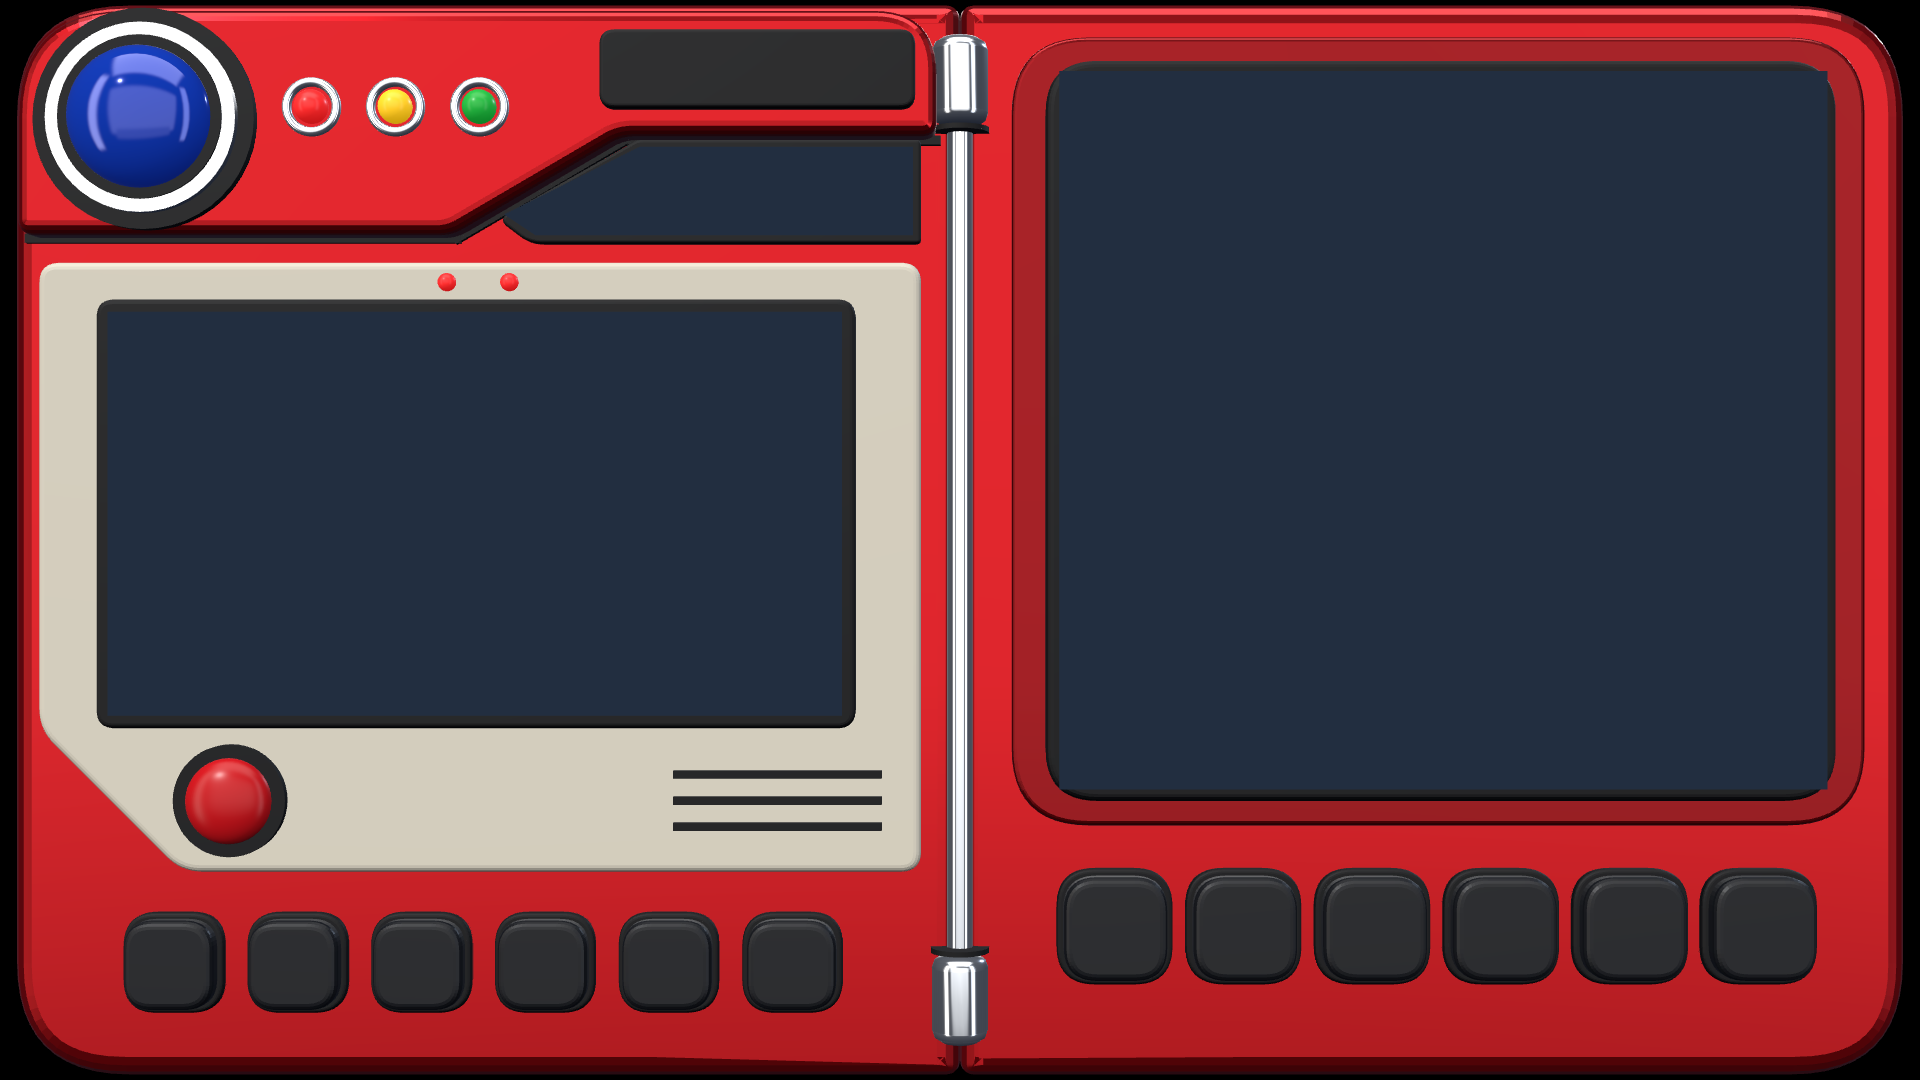
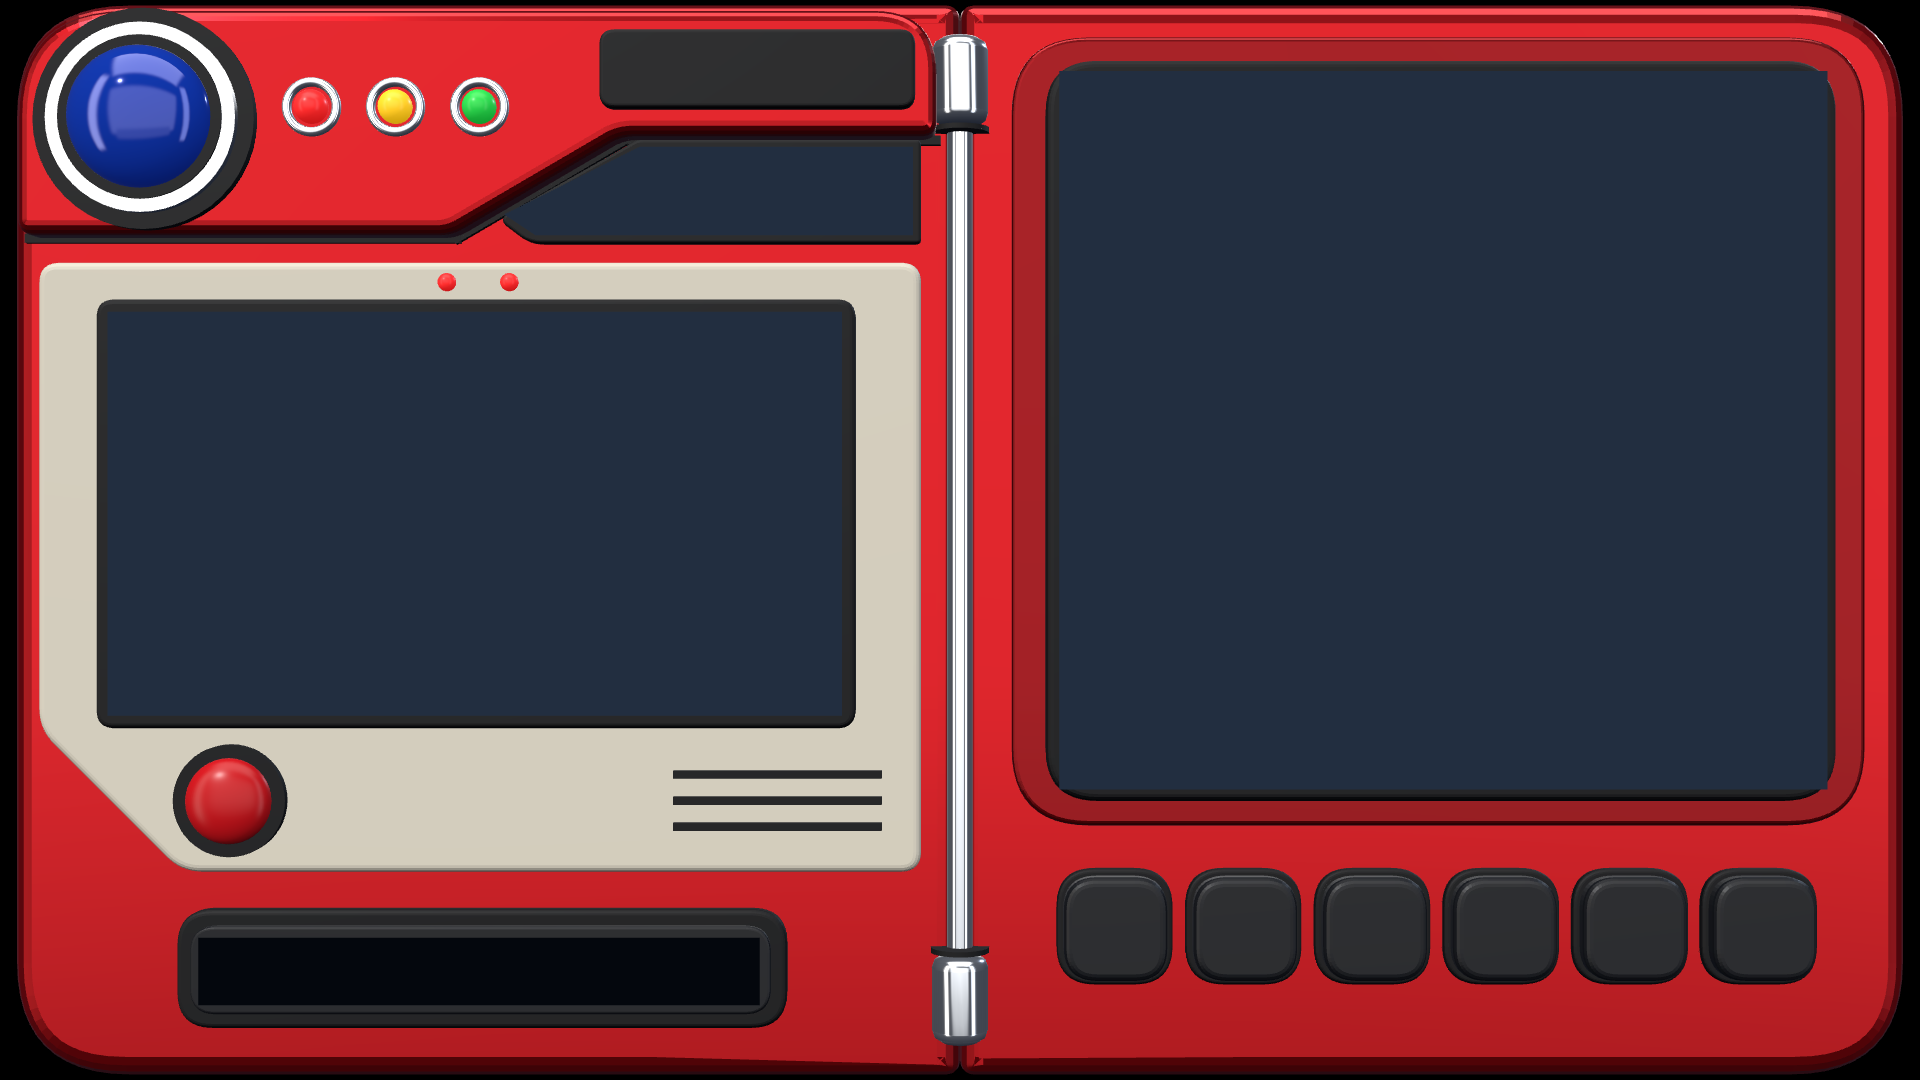
Mini status display at the lower left: network, notifications, storage
Replaces the six decorative keys with a recessed display. NotifService reads the
TV's notifications (notification access is granted by tools/install-apk.sh);
the Wi-Fi name needs location permission, also granted there.

Claude-Session: https://claude.ai/code/session_01U9C24E7d1zj8JvSuK3R342

Changed region(s): [[0.0625, 0.825, 0.4375, 0.9778], [0.2188, 0.0917, 0.2812, 0.1222]]

diff --git a/tools/shell-scene/dex.js b/tools/shell-scene/dex.js
@@ -448,6 +448,7 @@
   var mScreenR = new THREE.MeshBasicMaterial({ map: tR, toneMapped: false });
   var mScreenC = new THREE.MeshBasicMaterial({ map: tC, toneMapped: false });
   var mScreenN = new THREE.MeshBasicMaterial({ map: tN, transparent: true, toneMapped: false, depthWrite: false });
+  var mScreenS = new THREE.MeshBasicMaterial({ color: C(0x04070d), toneMapped: false });
   var mSign = new StdMat({ color: C(0xe9edf2), metalness: 1, roughness: 0.2, envMapIntensity: 2.0 });
   function makeSheen(w, h) {
     var c = document.createElement('canvas'); c.width = w; c.height = h;
@@ -658,12 +659,10 @@
       var s = new THREE.Mesh(new THREE.BoxGeometry(0.8, 0.03, 0.03), mGasket);
       s.position.set(1.15, -0.9 - i * 0.1, zF + 0.1); g.add(s);
     }
-    /* control keys, same style as the keys on the right-hand half */
-    var kx = [-1.2, -0.72, -0.24, 0.24, 0.72, 1.2];
-    for (var kq = 0; kq < kx.length; kq++) {
-      var kr = slab(roundedPoly(rectPts(0.39, 0.39, kx[kq], -1.64), 0.13), 0.03, 0.015, mGasket); kr.position.z = zF + 0.0; g.add(kr);
-      var kc = slab(roundedPoly(rectPts(0.345, 0.345, kx[kq], -1.64), 0.115), 0.07, 0.03, mBlack); kc.position.z = zF + 0.03; g.add(kc);
-    }
+    /* status display: a recessed bezel around a flat dark screen that the native app draws on */
+    var lcdBez = slab(roundedPoly(rectPts(2.36, 0.46, 0, -1.66), 0.14), 0.04, 0.02, mGasket); lcdBez.position.z = zF + 0.01; g.add(lcdBez);
+    var lcdFrame = slab(roundedPoly(rectPts(2.24, 0.34, 0, -1.66), 0.1), 0.02, 0.012, mBlack); lcdFrame.position.z = zF + 0.05; g.add(lcdFrame);
+    var lcd = new THREE.Mesh(new THREE.PlaneGeometry(2.16, 0.26), mScreenS); lcd.position.set(0, -1.66, zF + 0.085); g.add(lcd);
     return g;
   }
   function buildLid() {
@@ -942,7 +941,7 @@
   if (O.compile === '1') { try { renderer.compile(scene, camera); } catch (e) {} }   /* off by default: it crashed this TV's driver at startup */
   if (O.debug === '1') {   /* hook for tools/render-shell.js, which renders the device body for the native launcher */
     window.__dex = { THREE: THREE, scene: scene, camera: camera, renderer: renderer, D: D, setTarget: setTarget,
-      mats: { L: mScreenL, R: mScreenR, C: mScreenC, N: mScreenN, SL: mSheenL, SR: mSheenR, glass: mGlass, btn: btnMats }, state: function () { return state; } };
+      mats: { L: mScreenL, R: mScreenR, C: mScreenC, N: mScreenN, S: mScreenS, SL: mSheenL, SR: mSheenR, glass: mGlass, btn: btnMats }, state: function () { return state; } };
   }
   if (tier) msg('Graphics mode ' + tier, 4000);
   requestAnimationFrame(frame);

diff --git a/tools/render-shell.js b/tools/render-shell.js
@@ -27,7 +27,7 @@ const { chromium } = require(process.env.PLAYWRIGHT_MODULE || 'playwright');
     m.N.visible = false; m.SL.visible = false; m.SR.visible = false; m.glass.visible = false; m.btn.forEach(b => { b.visible = false; });
     d.scene.updateMatrixWorld(true);
     const wp = new T.Vector3(), find = {};
-    const mats = { left: m.L, right: m.R, clock: m.C, name: m.N };
+    const mats = { left: m.L, right: m.R, clock: m.C, name: m.N, status: m.S };
     d.D.pivot.traverse(o => {
       if (!o.isMesh) return;
       for (const k in mats) if (o.material === mats[k]) {

diff --git a/app/src/main/java/com/copper/dex/StatusView.java b/app/src/main/java/com/copper/dex/StatusView.java
@@ -1,0 +1,176 @@
+package com.copper.dex;
+
+import android.content.Context;
+import android.graphics.Canvas;
+import android.graphics.LinearGradient;
+import android.graphics.Paint;
+import android.graphics.Path;
+import android.graphics.RectF;
+import android.graphics.Shader;
+import android.net.ConnectivityManager;
+import android.net.NetworkInfo;
+import android.net.wifi.WifiInfo;
+import android.net.wifi.WifiManager;
+import android.os.Environment;
+import android.os.StatFs;
+
+import java.util.List;
+import java.util.Locale;
+
+/** The small display at the lower left: network, notifications and free storage. */
+final class StatusView extends DView {
+ private final Context ctx;
+ private final Paint line = Gfx.fill(Design.alpha(Design.CYAN, 0.22f));
+ private final Paint big = Gfx.text(Design.medium, 21, 0xFFF2FAFF, 0.01f);
+ private final Paint small = Gfx.text(Design.medium, 12, Design.GRAY, 0.22f);
+ private final Paint sub = Gfx.text(Design.regular, 13, 0xFF9FB4C6, 0.04f);
+ private final Paint cyan = Gfx.fill(Design.CYAN);
+ private final Paint dim = Gfx.fill(0xFF1D3346);
+ private final Paint sheen = new Paint();
+ private final RectF tmp = new RectF();
+ private final Path bell = new Path();
+
+ private String net = "", netSub = "";
+ private int level = -1;        // -1 offline, 0..4
+ private boolean wired;
+ private String free = "";
+ private float usedFrac;
+
+ private final Runnable poll = new Runnable() {
+  @Override public void run() {
+   read();
+   invalidate();
+   postDelayed(this, 5000);
+  }
+ };
+ private final Runnable onNotes = new Runnable() {
+  @Override public void run() { invalidate(); }
+ };
+
+ StatusView(Context c) {
+  super(c, Design.STATUS);
+  ctx = c.getApplicationContext();
+  sheen.setShader(new LinearGradient(Design.STATUS.left, Design.STATUS.top, Design.STATUS.left + 160, Design.STATUS.top + 40, 0x16FFFFFF, 0x00FFFFFF, Shader.TileMode.CLAMP));
+  small.setLetterSpacing(0.22f);
+  read();
+ }
+
+ @Override protected void onAttachedToWindow() {
+  super.onAttachedToWindow();
+  NotifService.listener = new Runnable() {
+   @Override public void run() { post(onNotes); }
+  };
+  post(poll);
+ }
+
+ @Override protected void onDetachedFromWindow() {
+  removeCallbacks(poll);
+  NotifService.listener = null;
+  super.onDetachedFromWindow();
+ }
+
+ @SuppressWarnings("deprecation")
+ private void read() {
+  try {
+   ConnectivityManager cm = (ConnectivityManager) ctx.getSystemService(Context.CONNECTIVITY_SERVICE);
+   NetworkInfo ni = cm == null ? null : cm.getActiveNetworkInfo();
+   if (ni == null || !ni.isConnected()) {
+    level = -1; wired = false; net = "OFFLINE"; netSub = "NO CONNECTION";
+   } else if (ni.getType() == ConnectivityManager.TYPE_ETHERNET) {
+    level = 4; wired = true; net = "ETHERNET"; netSub = ip(null);
+   } else {
+    wired = false;
+    WifiManager wm = (WifiManager) ctx.getSystemService(Context.WIFI_SERVICE);
+    WifiInfo wi = wm == null ? null : wm.getConnectionInfo();
+    String ssid = wi == null ? null : wi.getSSID();
+    if (ssid != null) ssid = ssid.replace("\"", "");
+    if (ssid == null || ssid.isEmpty() || ssid.contains("unknown ssid")) ssid = "Wi-Fi connected";
+    net = ssid;
+    level = wi == null ? 3 : Math.max(0, Math.min(4, WifiManager.calculateSignalLevel(wi.getRssi(), 5)));
+    netSub = ip(wi);
+   }
+  } catch (Exception e) {
+   level = -1; net = "NETWORK"; netSub = "";
+  }
+  try {
+   StatFs fs = new StatFs(Environment.getDataDirectory().getPath());
+   long total = fs.getTotalBytes(), avail = fs.getAvailableBytes();
+   free = String.format(Locale.ENGLISH, "%.1f GB FREE", avail / 1073741824.0);
+   usedFrac = total > 0 ? 1f - (float) avail / total : 0f;
+  } catch (Exception e) {
+   free = "";
+  }
+ }
+
+ private static String ip(WifiInfo wi) {
+  if (wi == null) return "";
+  int a = wi.getIpAddress();
+  if (a == 0) return "";
+  return (a & 0xff) + "." + ((a >> 8) & 0xff) + "." + ((a >> 16) & 0xff) + "." + ((a >> 24) & 0xff);
+ }
+
+ @Override void paintDesign(Canvas c) {
+  float x0 = Design.STATUS.left, y0 = Design.STATUS.top, w = Design.STATUS.width(), h = Design.STATUS.height();
+  float c1 = x0 + 196, c2 = x0 + 404;
+  // dividers
+  tmp.set(c1, y0 + 12, c1 + 1.5f, y0 + h - 12); c.drawRect(tmp, line);
+  tmp.set(c2, y0 + 12, c2 + 1.5f, y0 + h - 12); c.drawRect(tmp, line);
+  // network
+  drawBars(c, x0 + 20, y0 + h / 2f + 14);
+  float tx = x0 + 62;
+  c.drawText(fit(net, big, c1 - tx - 12), tx, y0 + 33, big);
+  c.drawText(netSub, tx, y0 + 53, sub);
+  // notifications
+  List<NotifService.Item> list = NotifService.recent;
+  drawBell(c, c1 + 30, y0 + h / 2f - 2);
+  float nx = c1 + 54;
+  if (!NotifService.connected) {
+   c.drawText("NOTICES", nx, y0 + 29, small);
+   c.drawText("Not enabled", nx, y0 + 52, sub);
+  } else if (list.isEmpty()) {
+   c.drawText("NOTICES", nx, y0 + 29, small);
+   c.drawText("All clear", nx, y0 + 53, big);
+  } else {
+   NotifService.Item it = list.get(0);
+   c.drawText(list.size() + (list.size() == 1 ? " NOTICE  ·  " : " NOTICES  ·  ") + it.app.toUpperCase(Locale.ENGLISH), nx, y0 + 28, small);
+   c.drawText(fit(it.title.isEmpty() ? it.app : it.title, big, c2 - nx - 12), nx, y0 + 54, big);
+  }
+  // storage
+  float sx = c2 + 22;
+  c.drawText("STORAGE", sx, y0 + 29, small);
+  c.drawText(fit(free, sub, w - (sx - x0) - 14), sx, y0 + 47, sub);
+  tmp.set(sx, y0 + 53, x0 + w - 18, y0 + 58);
+  c.drawRoundRect(tmp, 2.5f, 2.5f, dim);
+  tmp.right = tmp.left + (tmp.width()) * Math.max(0.04f, usedFrac);
+  c.drawRoundRect(tmp, 2.5f, 2.5f, cyan);
+  c.drawRect(Design.STATUS, sheen);
+ }
+
+ private void drawBars(Canvas c, float x, float baseY) {
+  for (int i = 0; i < 5; i++) {
+   float bh = 6 + i * 5;
+   tmp.set(x + i * 7, baseY - bh, x + i * 7 + 4.5f, baseY);
+   c.drawRoundRect(tmp, 1.5f, 1.5f, (level >= 0 && i <= level) ? cyan : dim);
+  }
+ }
+
+ private void drawBell(Canvas c, float cx, float cy) {
+  bell.reset();
+  bell.moveTo(cx - 8, cy + 6);
+  bell.lineTo(cx - 8, cy - 1);
+  tmp.set(cx - 8, cy - 11, cx + 8, cy + 5);
+  bell.arcTo(tmp, 180, 180);
+  bell.lineTo(cx + 8, cy + 6);
+  bell.close();
+  c.drawPath(bell, cyan);
+  c.drawRect(cx - 11, cy + 5, cx + 11, cy + 7.5f, cyan);
+  c.drawCircle(cx, cy + 11, 2.8f, cyan);
+ }
+
+ private static String fit(String s, Paint p, float max) {
+  if (s == null) return "";
+  if (p.measureText(s) <= max) return s;
+  while (s.length() > 1 && p.measureText(s + "…") > max) s = s.substring(0, s.length() - 1);
+  return s + "…";
+ }
+}

diff --git a/app/src/main/java/com/copper/dex/ShellView.java b/app/src/main/java/com/copper/dex/ShellView.java
@@ -25,10 +25,6 @@ final class ShellView extends DView {
  private final Paint ballFill = new Paint(Paint.ANTI_ALIAS_FLAG);
  private final Paint ballLine = Gfx.fill(0xFF181418);
  private final RectF box = new RectF();
- private final android.graphics.Path path = new android.graphics.Path();
- private final Paint glyphLine = Gfx.stroke(0xFFE9EFF4, 3f);
- private final Paint glyphGlow = Gfx.stroke(Design.alpha(0xFFBEE6FF, 0.35f), 6f);
- private final Paint glyphText = Gfx.text(Design.semi, 24, 0xFFE9EFF4, 0.02f);
  private final Rect all = new Rect(0, 0, Design.W, Design.H);
 
  ShellView(Context c) {
@@ -41,7 +37,6 @@ final class ShellView extends DView {
    in.close();
   } catch (Exception ignored) {
   }
-  glyphText.setTextAlign(Paint.Align.CENTER);
   word.setShadowLayer(8, 0, 0, Design.alpha(0xFFFFFFFF, 0.25f));
   wordDex.setShadowLayer(10, 0, 0, Design.alpha(Design.CYAN, 0.6f));
  }
@@ -50,7 +45,6 @@ final class ShellView extends DView {
   c.drawColor(Color.BLACK);
   if (shell != null) c.drawBitmap(shell, null, all, bmp);
   drawPlate(c);
-  drawKeyGlyphs(c);
  }
 
  /** The logo on the name plate: a ball mark, "COPPER DEX" and a small tagline. */
@@ -68,36 +62,6 @@ final class ShellView extends DView {
   c.drawText("COPPER", tx, base, word);
   float w = word.measureText("COPPER ");
   c.drawText("DEX", tx + w, base, wordDex);
- }
-
- /** Marks on the six decorative keys at the lower left: four arrows, OK and back. */
- private void drawKeyGlyphs(Canvas c) {
-  float[] xs = {174, 298, 421, 545, 668, 792};
-  float cy = 963;
-  for (int i = 0; i < 6; i++) {
-   for (int pass = 0; pass < 2; pass++) {
-    Paint p = pass == 0 ? glyphGlow : glyphLine;
-    float x = xs[i];
-    path.reset();
-    switch (i) {
-     case 0: path.moveTo(x + 7, cy - 12); path.lineTo(x - 10, cy); path.lineTo(x + 7, cy + 12); break;
-     case 1: path.moveTo(x - 12, cy + 7); path.lineTo(x, cy - 10); path.lineTo(x + 12, cy + 7); break;
-     case 2: path.moveTo(x - 12, cy - 7); path.lineTo(x, cy + 10); path.lineTo(x + 12, cy - 7); break;
-     case 3: path.moveTo(x - 7, cy - 12); path.lineTo(x + 10, cy); path.lineTo(x - 7, cy + 12); break;
-     case 4: break;
-     default:
-      box.set(x - 11, cy - 10, x + 11, cy + 12);
-      path.addArc(box, -40, -250);
-      path.moveTo(x + 8, cy - 14); path.lineTo(x + 9, cy - 5); path.lineTo(x + 1, cy - 8);
-      break;
-    }
-    if (i == 4) {
-     if (pass == 1) c.drawText("OK", x, cy + 8, glyphText);
-    } else {
-     c.drawPath(path, p);
-    }
-   }
-  }
  }
 
  private void drawBall(Canvas c, float cx, float cy, float r) {

diff --git a/app/src/main/java/com/copper/dex/NotifService.java b/app/src/main/java/com/copper/dex/NotifService.java
@@ -1,0 +1,64 @@
+package com.copper.dex;
+
+import android.app.Notification;
+import android.content.pm.PackageManager;
+import android.service.notification.NotificationListenerService;
+import android.service.notification.StatusBarNotification;
+
+import java.util.ArrayList;
+import java.util.Collections;
+import java.util.Comparator;
+import java.util.List;
+
+/** Reads the notifications the TV posts so the status display can show them. Needs "notification access"
+ *  (tools/install-apk.sh switches it on with: cmd notification allow_listener). */
+public class NotifService extends NotificationListenerService {
+ static final class Item {
+  String app = "", title = "";
+  long time;
+ }
+
+ static volatile List<Item> recent = Collections.emptyList();
+ static volatile boolean connected;
+ static volatile Runnable listener;
+
+ @Override public void onListenerConnected() {
+  connected = true;
+  refresh();
+ }
+
+ @Override public void onListenerDisconnected() {
+  connected = false;
+ }
+
+ @Override public void onNotificationPosted(StatusBarNotification sbn) { refresh(); }
+
+ @Override public void onNotificationRemoved(StatusBarNotification sbn) { refresh(); }
+
+ private void refresh() {
+  List<Item> out = new ArrayList<>();
+  try {
+   StatusBarNotification[] all = getActiveNotifications();
+   PackageManager pm = getPackageManager();
+   if (all != null) {
+    for (StatusBarNotification n : all) {
+     if (getPackageName().equals(n.getPackageName())) continue;
+     if ((n.getNotification().flags & Notification.FLAG_ONGOING_EVENT) != 0) continue;
+     Item it = new Item();
+     it.time = n.getPostTime();
+     try { it.app = String.valueOf(pm.getApplicationLabel(pm.getApplicationInfo(n.getPackageName(), 0))); } catch (Exception e) { it.app = n.getPackageName(); }
+     CharSequence t = n.getNotification().extras.getCharSequence(Notification.EXTRA_TITLE);
+     it.title = t == null ? "" : t.toString();
+     out.add(it);
+    }
+   }
+  } catch (Exception ignored) {
+  }
+  Collections.sort(out, new Comparator<Item>() {
+   @Override public int compare(Item a, Item b) { return Long.compare(b.time, a.time); }
+  });
+  recent = out;
+  Runnable r = listener;
+  if (r != null) r.run();
+ }
+}

diff --git a/app/src/main/java/com/copper/dex/Design.java b/app/src/main/java/com/copper/dex/Design.java
@@ -18,6 +18,7 @@ final class Design {
  static final int KEY_Y = 928, KEY_SIZE = 100;
  static final Rect KEYS = new Rect(1040, 860, 1850, 1050);
  static final Rect LEDS = new Rect(0, 0, 560, 270);
+ static final Rect STATUS = new Rect(198, 938, 760, 1006);
 
  static final int BG = 0xFF040812, PANEL = 0xFF050810, CYAN = 0xFF5CE1FF, GRAY = 0xFF7E93A6, DIM = 0xFF5F7488;
 

diff --git a/app/src/main/java/com/copper/dex/MainActivity.java b/app/src/main/java/com/copper/dex/MainActivity.java
@@ -60,6 +60,7 @@ public class MainActivity extends Activity {
   stage.addView(new LedView(this));
   stage.addView(hero);
   stage.addView(new ClockView(this));
+  stage.addView(new StatusView(this));
   stage.addView(list);
   stage.addView(keys);
   stage.addView(standby);
